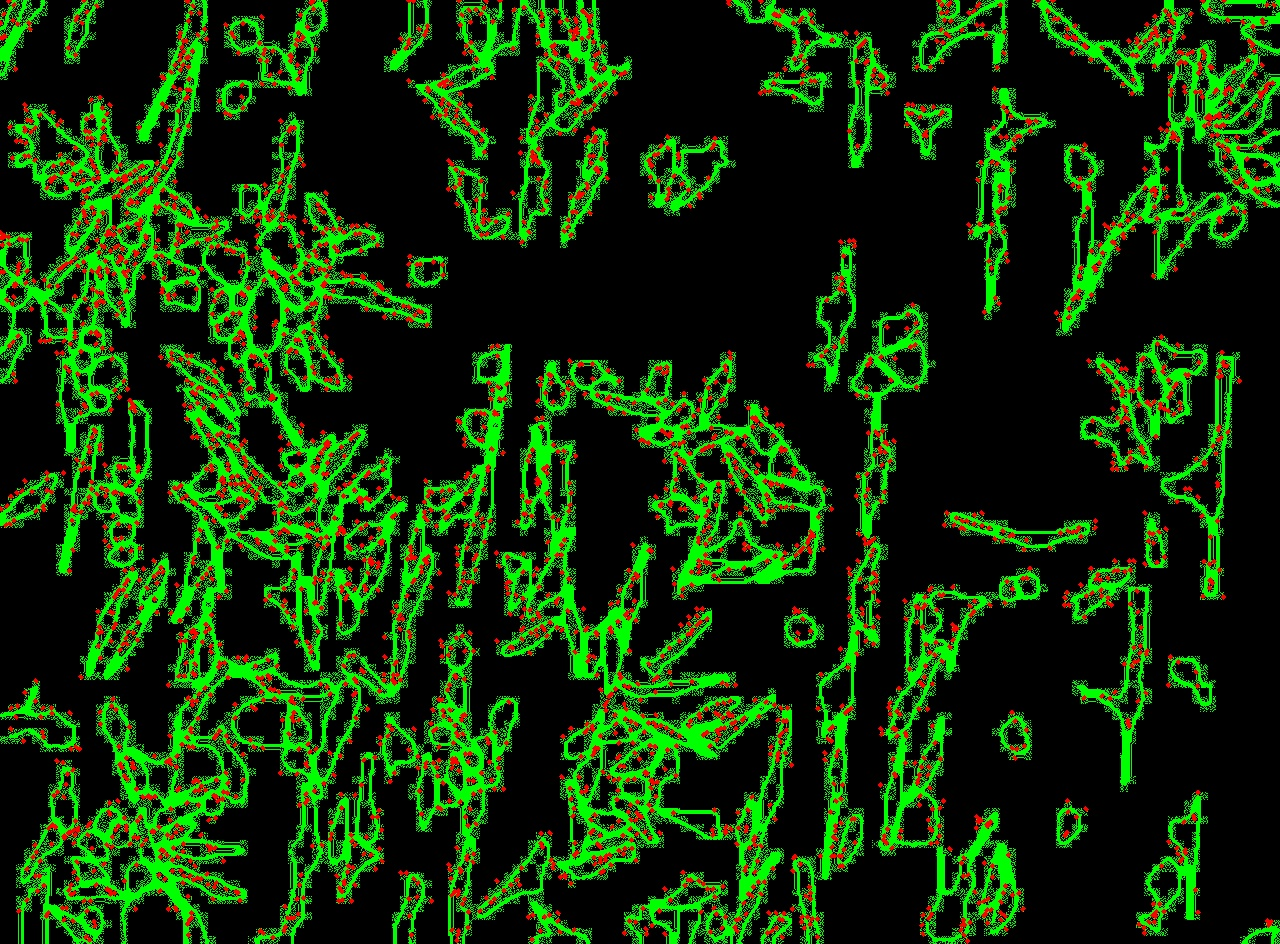
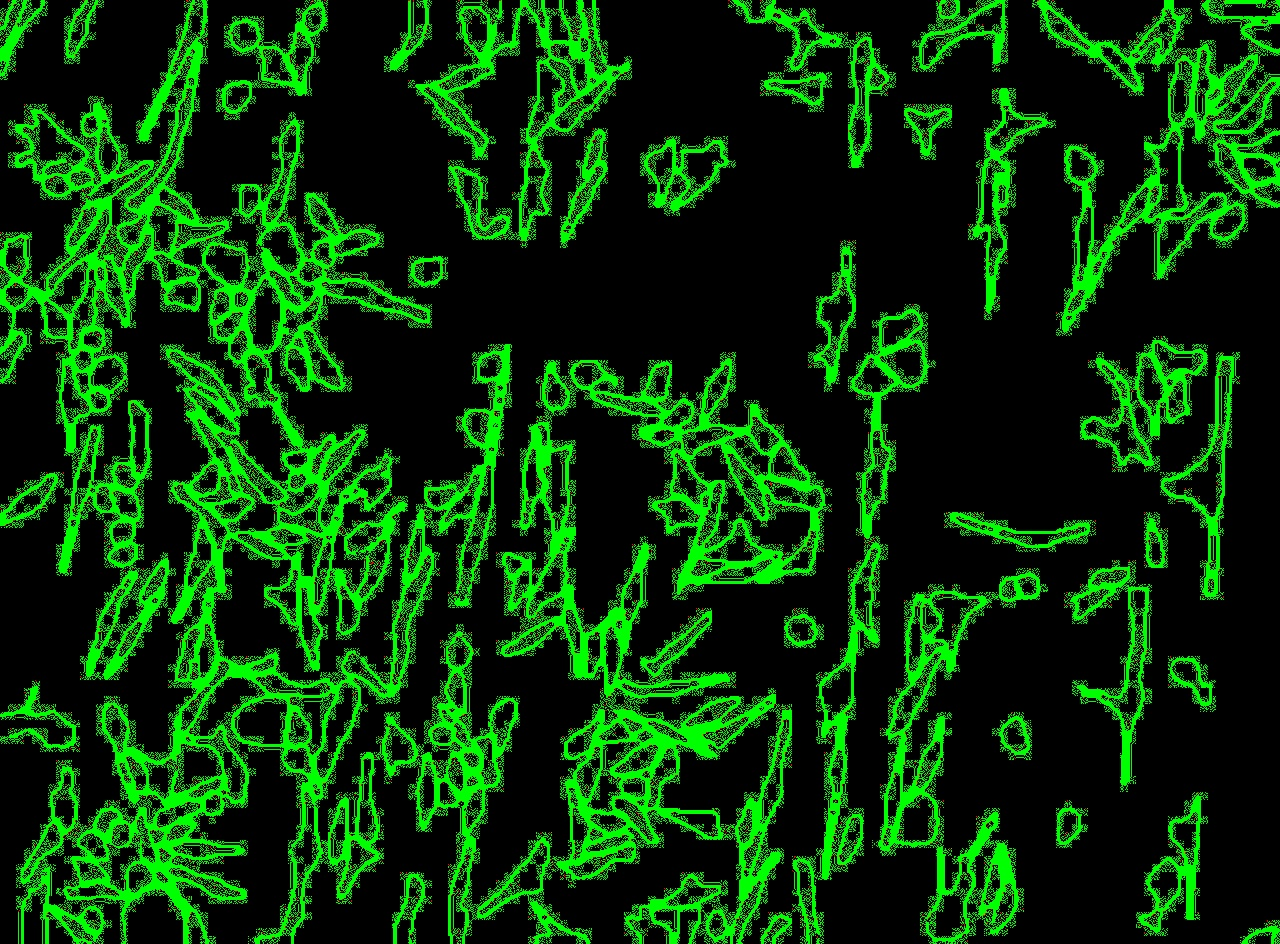
Enforce strict 1-2 pixel border thickness for closed borders and red overlay highlights

diff --git a/agy-code/contour_closing_engine.py b/agy-code/contour_closing_engine.py
@@ -40,7 +40,7 @@ def detect_and_close_open_contours(
         # Self-closing gap check (start vs end of same contour)
         dist_self = np.hypot(p_start[0] - p_end[0], p_start[1] - p_end[1])
         if 2 <= dist_self <= max_gap_distance:
-            cv2.line(closed_border_map, p_start, p_end, 255, thickness=2)
+            cv2.line(closed_border_map, p_start, p_end, 255, thickness=1)
             bridged_lines.append((p_start, p_end))
             gaps_closed_count += 1
         else:
@@ -62,26 +62,25 @@ def detect_and_close_open_contours(
             pt1 = (int(pts_arr[i][0]), int(pts_arr[i][1]))
             pt2 = (int(pts_arr[j][0]), int(pts_arr[j][1]))
 
-            # Bridge the open gap
-            cv2.line(closed_border_map, pt1, pt2, 255, thickness=2)
+            # Bridge the open gap with 1-pixel thin line
+            cv2.line(closed_border_map, pt1, pt2, 255, thickness=1)
             bridged_lines.append((pt1, pt2))
             used.add(i)
             used.add(j)
             gaps_closed_count += 1
 
-    # STEP 4: MORPHOLOGICAL ELLIPSE CLOSING REPAIR FOR RESIDUAL MINOR BREAKS
-    kernel_repair = cv2.getStructuringElement(cv2.MORPH_ELLIPSE, (5, 5))
-    closed_border_map = cv2.morphologyEx(closed_border_map, cv2.MORPH_CLOSE, kernel_repair)
+    # STEP 4: 1-PIXEL SKELETONIZATION PASS (Guarantees Strict 1-2 Pixel Border Thickness)
+    kernel_small = cv2.getStructuringElement(cv2.MORPH_ELLIPSE, (3, 3))
+    closed_border_map = cv2.morphologyEx(closed_border_map, cv2.MORPH_CLOSE, kernel_small)
 
-    # STEP 5: BUILD BRIGHT RED HIGHLIGHT OVERLAY MAP
-    # Base: Existing binary borders in GREEN (0, 255, 0) or WHITE
+    # STEP 5: BUILD BRIGHT RED HIGHLIGHT OVERLAY MAP (1-2 Pixel Scale)
     red_overlay_map = cv2.cvtColor(binary_border_map, cv2.COLOR_GRAY2BGR)
-    # Draw initial borders in Green
+    # Draw initial borders in Green (1-2 px)
     red_overlay_map[binary_border_map > 0] = [0, 255, 0]
 
-    # Draw all newly closed / bridged gap segments in BRIGHT RED (0, 0, 255)
+    # Draw all newly closed / bridged gap segments in BRIGHT RED (1-2 px thickness)
     for p1, p2 in bridged_lines:
-        cv2.line(red_overlay_map, p1, p2, (0, 0, 255), thickness=3)
+        cv2.line(red_overlay_map, p1, p2, (0, 0, 255), thickness=1)
 
     stats = {
         "total_contours": len(contours),
